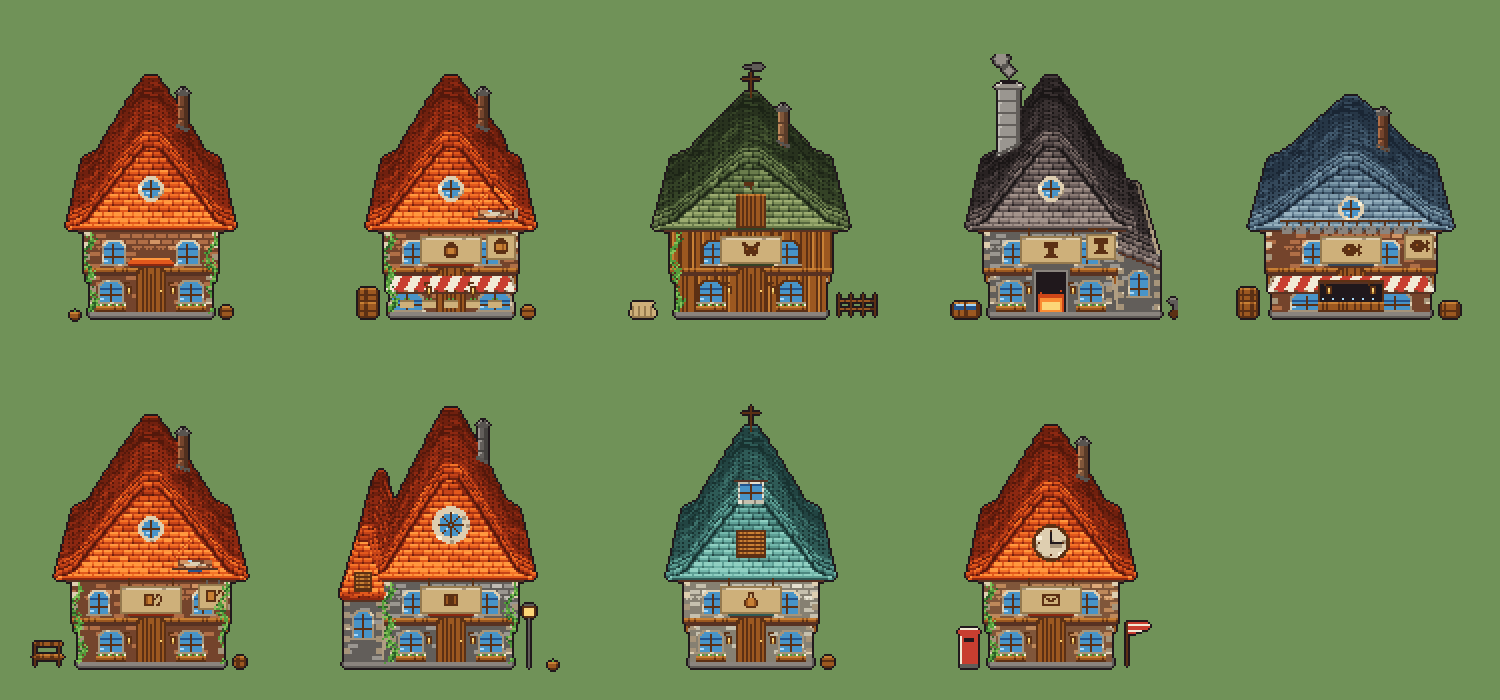
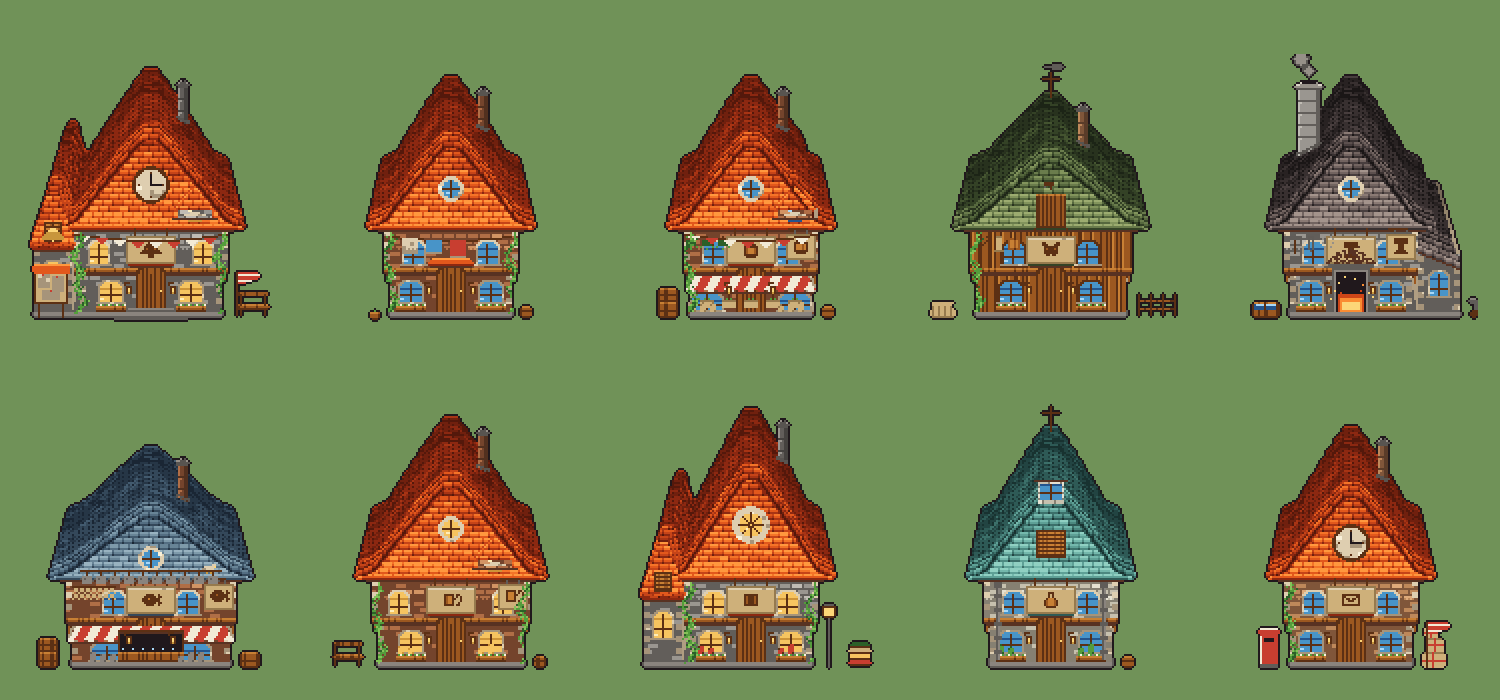
집마다 사는 티를 낸다 + 마을 회관
간판 하나에 물건 하나로는 밋밋했다. 「저 집은 대장간이다」가 되는 건
**연장이 벽에 걸려 있고 창턱에 물건이 널려 있을 때**다. 사람이 쓰는 집은
늘 어질러져 있다.

  불 켜진 창   여관·도서관·회관은 유리색을 통째로 따뜻하게 간다.
               창 하나로 밤에도 사람이 있는 집이 된다
  처마 밑      연장(망치·집게·편자) · 그물 · 굴레와 우유통 · 말린 약초 · 빨래
  창턱         항아리 · 술병 · 책 · 약병 · 생선
  그 밖        만국기(잡화점) · 그을음과 불똥(대장간) · 갈매기(수산시장)
               배관(연구소) · 책더미(도서관) · 소포(우체국) · 석탄(대장간)

연장은 벽이 아니라 **처마 밑에** 걸었다. 벽은 창과 문으로 이미 꽉 차서
걸 자리가 없었다 — 실제로도 이런 건 처마 밑에 매단다. 간판도 30 -> 24칸으로
좁혀 그 자리를 냈다.

마을 회관(chief_house)을 새로 만들었다. 성격은 「여럿이 모인다」라서
다른 집엔 없는 것만 모았다: 종탑과 종 · 박공 시계 · 돌계단 · 게시판 ·
만국기와 깃발. 창은 전부 켜 두었다.

폭은 5칸만 늘렸다. 12칸으로 늘렸더니 왼쪽 종탑과 오른쪽 깃발이 캔버스
밖으로 잘렸다 — 회관은 옆에 붙는 게 많아서 몸통을 넓히면 그만큼 부속이
밀려난다. 큰 느낌은 폭이 아니라 종탑 높이가 낸다.

diff --git a/game/assets/ref/make_buildings.js b/game/assets/ref/make_buildings.js
@@ -752,6 +752,8 @@ const ICON = {
            '..#o###o#..', '..#o###o#..', '..#######..', '...........'],
   flask:  ['....###....', '....#.#....', '....#.#....', '...#ooo#...',
            '..#ooooo#..', '..#ooooo#..', '..#ooooo#..', '...#####...'],
+  bell:   ['....###....', '...#####...', '..#######..', '..#o###o#..',
+           '.#########.', '###########', '....###....', '....###....'],
   letter: ['...........', '.#########.', '.##.....##.', '.#.##.##.#.',
            '.#..###..#.', '.#.......#.', '.#########.', '...........'],
 };
@@ -767,7 +769,7 @@ function stampIcon(g, cx, cy, name, dark, lite) {
 }
 
 function sign(g, cx, icon) {
-  const w = 30, x0 = cx - w / 2, y = EAVE + 4;
+  const w = 24, x0 = cx - w / 2, y = EAVE + 4;
   g.vline(x0 + 4, y - 4, y, 'T');
   g.vline(x0 + w - 4, y - 4, y, 'T');
   g.rect(x0, y, x0 + w, y + 13, 'B');
@@ -970,6 +972,161 @@ function chimney(g, x, top, base, far, w) {
       if (roofT[yy] && roofT[yy][xx] >= 0)
         roofT[yy][xx] = Math.min(1, roofT[yy][xx] + 0.30 - d * 0.045);
     }
+}
+
+
+// ---- 그 집에 사는 티 ----
+//
+// 간판 하나에 물건 하나로는 아직 밋밋했다. 진짜로 「저 집은 대장간이다」가
+// 되는 건 **연장이 벽에 걸려 있고 창턱에 물건이 널려 있을 때**다.
+// 사람이 쓰는 집은 늘 어질러져 있다.
+
+// 벽에 건 연장 — 집마다 다른 세 가지가 나란히 걸린다
+function wallHang(g, x, y, kind) {
+  if (kind === 'smith') {
+    g.rect(x, y, x + 5, y + 1, 'S'); g.vline(x + 2, y + 2, y + 8, 'T');      // 망치
+    g.vline(x + 9, y, y + 6, 'S'); g.vline(x + 11, y, y + 6, 'S');           // 집게
+    g.px(x + 10, y + 7, 'S'); g.px(x + 10, y, 'S');
+    for (const [dx, dy] of [[16,1],[17,0],[20,0],[21,1],[16,3],[21,3],[17,5],[20,5]])
+      g.px(x + dx, y + dy, 'p4');                                            // 편자
+  } else if (kind === 'ranch') {
+    for (const [dx, dy] of [[0,0],[1,0],[5,0],[6,0],[0,1],[6,1],[1,2],[5,2],[2,3],[4,3],[3,4]])
+      g.px(x + dx, y + dy, 'T');                                             // 굴레
+    g.rect(x + 10, y, x + 12, y + 7, 'b'); g.hline(x + 10, x + 12, y, 'B');  // 우유통
+    g.hline(x + 9, x + 13, y + 7, 'B');
+    g.rect(x + 16, y + 1, x + 21, y + 6, 't');                               // 밧줄 타래
+    g.rect(x + 17, y + 2, x + 20, y + 5, 'u');
+  } else if (kind === 'fish') {
+    for (let dy = 0; dy < 7; dy++) for (let dx = 0; dx < 22; dx++)           // 그물
+      if ((dx + dy) % 3 === 0 || (dx - dy + 30) % 3 === 0) g.px(x + dx, y + dy, 'b');
+    g.hline(x, x + 21, y, 'T');
+  } else if (kind === 'herb') {
+    for (let i = 0; i < 3; i++) {                                            // 말린 약초 다발
+      const px = x + i * 8;
+      g.vline(px, y, y + 1, 'T');
+      g.rect(px - 2, y + 2, px + 2, y + 4, 'N');
+      g.px(px - 3, y + 5, 'n'); g.px(px + 3, y + 5, 'n'); g.px(px, y + 6, 'n');
+    }
+  }
+}
+
+// 창턱에 늘어놓은 물건 — 그 가게가 파는 것
+function sillGoods(g, x0, x1, y, kind) {
+  const C = { jar: ['b', 'B'], bottle: ['g', 'G'], book: ['A', 'T'],
+              flask: ['n', 'N'], fish: ['s', 'S'] }[kind] || ['b', 'B'];
+  for (let x = x0; x <= x1 - 3; x += 5) {
+    const h = 3 + ((x >> 1) % 3);
+    g.rect(x, y - h, x + 2, y - 1, C[0]);
+    g.px(x, y - h, C[1]); g.px(x + 2, y - 1, C[1]);
+    if (kind === 'flask') g.px(x + 1, y - h - 1, C[1]);                      // 목
+    if (kind === 'jar') g.px(x + 1, y - h - 1, C[1]);
+  }
+}
+
+// 불똥 — 화구에서 튄다. 대장간이 「일하는 중」으로 보인다
+function sparks(g, cx, y) {
+  for (const [dx, dy] of [[-8,-3],[-6,-7],[-3,-10],[2,-9],[6,-6],[9,-2],[-10,1],[11,0]])
+    g.px(cx + dx, y + dy, (dx + dy) % 2 ? 'y' : 'F');
+}
+
+// 그을음 — 화구 위 벽이 검게 탄다. 이게 있어야 오래 쓴 대장간이다
+function soot(g, x0, x1, y) {
+  for (let dy = 0; dy < 9; dy++) for (let x = x0 + dy; x <= x1 - dy; x++)
+    if (hash(x, y + dy) < 0.75 - dy * 0.07) g.px(x, y - dy, 'D');
+}
+
+// 만국기 — 잡화점 앞에 걸린 삼각 깃발
+function bunting(g, x0, x1, y) {
+  for (let x = x0; x <= x1; x++) g.px(x, y + Math.round(Math.sin((x - x0) / (x1 - x0) * Math.PI) * 3), 'T');
+  for (let i = 0; x0 + i * 9 + 4 < x1; i++) {
+    const px = x0 + i * 9 + 2;
+    const sag = Math.round(Math.sin((px - x0) / (x1 - x0) * Math.PI) * 3);
+    for (let k = 0; k < 4; k++)
+      g.rect(px + k, y + sag + 1 + k, px + 5 - k, y + sag + 1 + k, i % 2 ? 'A' : 'a');
+  }
+}
+
+// 빨랫줄 — 우리집. 사람이 사는 집이라는 표시로 이만한 게 없다
+function laundry(g, x0, x1, y) {
+  for (let x = x0; x <= x1; x++) g.px(x, y + Math.round(Math.sin((x - x0) / (x1 - x0) * Math.PI) * 2), 'T');
+  const cloth = [['x', 7], ['g', 6], ['A', 8]];
+  cloth.forEach(([c, h], i) => {
+    const px = x0 + 6 + i * 12;
+    const sag = Math.round(Math.sin((px - x0) / (x1 - x0) * Math.PI) * 2);
+    g.rect(px, y + sag, px + 7, y + sag + h, c);
+    g.hline(px, px + 7, y + sag + h, 'W');
+  });
+}
+
+// 관 — 연구소 벽을 타고 오르는 배관
+function pipes(g, x, y0, y1) {
+  g.vline(x, y0, y1, 'S'); g.vline(x + 1, y0, y1, 's');
+  for (let y = y0 + 4; y < y1; y += 7) g.rect(x - 1, y, x + 2, y + 1, 'S');
+  g.rect(x - 1, y0 - 2, x + 2, y0, 'S');
+}
+
+// 쌓아 둔 것 — 책(도서관) · 소포(우체국) · 석탄(대장간)
+function pile(g, x, y, kind) {
+  if (kind === 'book') {
+    const c = ['A', 'g', 'b', 'N'];
+    for (let i = 0; i < 4; i++) {
+      g.rect(x + (i % 2), y - 3 - i * 3, x + 11 - (i % 2), y - 1 - i * 3, c[i]);
+      g.hline(x + (i % 2), x + 11 - (i % 2), y - 1 - i * 3, 'T');
+    }
+  } else if (kind === 'parcel') {
+    for (const [dx, dy, w, h] of [[0, 0, 11, 7], [2, 8, 8, 6], [1, 15, 6, 5]]) {
+      g.rect(x + dx, y - dy - h, x + dx + w, y - dy, 'b');
+      g.hline(x + dx, x + dx + w, y - dy - h, 'B');
+      g.vline(x + dx + (w >> 1), y - dy - h, y - dy, 'A');                   // 노끈
+      g.hline(x + dx, x + dx + w, y - dy - (h >> 1), 'A');
+    }
+  } else {                                                                    // 석탄
+    for (let i = 0; i < 26; i++) {
+      const px = x + Math.floor(hash(i, 3) * 14), py = y - Math.floor(hash(3, i) * 7);
+      g.px(px, py, 'O'); g.px(px + 1, py, hash(i, i) < 0.3 ? 'S' : 'O');
+    }
+  }
+}
+
+// 갈매기 — 수산시장 지붕에. 작은 실루엣 하나가 바닷가라고 말해 준다
+function gull(g, x, y) {
+  g.rect(x + 1, y - 2, x + 5, y, 'x');
+  g.px(x, y - 1, 'x'); g.px(x + 6, y - 3, 'x');
+  g.px(x + 5, y - 3, 'x'); g.px(x + 6, y - 2, 'y');
+  g.px(x + 2, y + 1, 'Y'); g.px(x + 4, y + 1, 'Y');
+}
+
+
+// 종 — 회관 종탑에 매단다. 마을을 부르는 물건이라 회관에만 있다
+function bell(g, cx, y) {
+  g.vline(cx, y - 3, y - 2, 'T');
+  for (let i = 0; i < 5; i++) {
+    const w = 1 + Math.round(i * 0.9);
+    g.rect(cx - w, y - 1 + i, cx + w, y - 1 + i, i < 2 ? 'y' : 'Y');
+  }
+  g.rect(cx - 5, y + 4, cx + 5, y + 4, 'Y');
+  g.px(cx, y + 5, 'y');                                    // 종설
+}
+
+// 돌계단 — 여럿이 드나드는 집. 문 앞이 넓게 열려 있다는 표시
+function steps(g, cx, w, ground) {
+  for (let i = 0; i < 3; i++) {
+    const e = i * 4;
+    g.rect(cx - (w >> 1) - e, ground - 4 + i * 2, cx + (w >> 1) + e, ground - 3 + i * 2, 'S');
+    g.hline(cx - (w >> 1) - e, cx + (w >> 1) + e, ground - 4 + i * 2, 's');
+  }
+}
+
+// 게시판 — 회관 앞 코르크판. 종이가 몇 장 붙어 있다
+function noticeboard(g, x, y) {
+  g.vline(x + 2, y - 8, y, 'T'); g.vline(x + 14, y - 8, y, 'T');
+  g.rect(x, y - 24, x + 16, y - 7, 'T');
+  g.rect(x + 1, y - 23, x + 15, y - 8, 'b');
+  for (const [dx, dy, w, h] of [[2, 21, 5, 6], [9, 20, 5, 7], [4, 13, 8, 4]]) {
+    g.rect(x + dx, y - dy, x + dx + w, y - dy + h, 'x');
+    g.px(x + dx + (w >> 1), y - dy, 'A');                  // 압정
+  }
+  for (let i = 0; i < 5; i++) g.rect(x - 1, y - 26 + i, x + 17, y - 26 + i, i ? 'r' : 'l');
 }
 
 
@@ -1185,6 +1342,10 @@ function build(spec) {
   // 안 그러면 서까래만 주황으로 남아 지붕이 두 색이 된다
   PAL.l = rp[0]; PAL.r = rp[2]; PAL.R = rp[5];
   PAL.Mn = rp[4]; PAL.M = rp[5]; PAL.M2 = rp[6]; PAL.M3 = rp[7];
+  // 불 켜진 창 — 유리색을 통째로 간다. 여관·도서관처럼 밤에도 사람이
+  // 있는 집은 창 하나로 분위기가 갈린다
+  if (spec.lit) { PAL.g = [246, 196, 96]; PAL.G = [206, 148, 56]; PAL.e = [254, 238, 186]; }
+  else { PAL.g = [72, 148, 200]; PAL.G = [36, 84, 140]; PAL.e = [168, 216, 248]; }
   const wp = WALL_PAL[spec.wallPal || 'brick'];
   PAL.k = wp.k; PAL.K = wp.K; PAL.i = wp.i;
   PAL.p0 = wp.i; PAL.p1 = wp.k; PAL.p2 = wp.K;
@@ -1263,6 +1424,9 @@ function build(spec) {
     footL = Math.min(footL, c - 9); footR = Math.max(footR, c + 9);
   }
   if (spec.stall) stall(g, CX - 16, CX + 16, GROUND);
+  if (spec.bell) bell(g, (spec.tower === 'right' ? X1 + JUT + 11 : X0 - JUT - 11),
+    EAVE + 10 - 28 + 19);
+  if (spec.steps) steps(g, CX, 22, GROUND);
   // 옆으로 늘어난 만큼 **주춧돌을 하나로 잇는다.** 덩어리마다 따로 두면
   // 밑에 틈이 생겨서 두 채를 나란히 세워 놓은 것처럼 보인다 — 한 채의
   // 집은 한 장의 땅 위에 선다
@@ -1296,11 +1460,28 @@ function build(spec) {
     else if (kind === 'lamppost') lamppost(g, px, GROUND);
     else if (kind === 'bench') bench(g, px, GROUND);
     else if (kind === 'fence') fence(g, px, px + 26, GROUND);
+    else if (kind === 'books') pile(g, px, GROUND, 'book');
+    else if (kind === 'parcel') pile(g, px, GROUND, 'parcel');
+    else if (kind === 'coal') pile(g, px, GROUND, 'coal');
+    else if (kind === 'notice') noticeboard(g, px, GROUND);
   }
   if (spec.flag) flag(g, X1 + JUT + 5, GROUND);
   if (spec.sign) sign(g, CX, spec.icon);
   if (spec.hang) hangSign(g, X1 + JUT - 14, MID - 22, spec.icon);
   if (spec.baskets) baskets(g, CX - 22, CX + 22, MID + 11);
+  // 연장·약초는 **처마 밑에** 건다. 벽은 창과 문으로 이미 꽉 차서 걸 데가
+  // 없었다 — 실제로도 이런 건 처마 밑에 매단다
+  if (spec.hang2) wallHang(g, X0 - JUT + 3, EAVE + 4, spec.hang2);
+  if (spec.sill) {                                               // 창턱에 늘어놓은 물건
+    const sy = (spec.awning ? MID + 20 : MID + 16);
+    sillGoods(g, CX - 26 - (spec.bigWin ? 4 : 0), CX - 14, sy, spec.sill);
+    sillGoods(g, CX + 14, CX + 26 + (spec.bigWin ? 4 : 0), sy, spec.sill);
+  }
+  if (spec.soot) { soot(g, CX - 12, CX + 12, GROUND - 27); sparks(g, CX, GROUND - 10); }
+  if (spec.bunting) bunting(g, X0 - JUT, X1 + JUT, EAVE + 3);
+  if (spec.laundry) laundry(g, X0 - JUT + 3, X1 + JUT - 3, EAVE + 4);
+  if (spec.pipes) { pipes(g, X0 + 3, EAVE + 4, GROUND - 4); pipes(g, X1 - 4, EAVE + 4, GROUND - 4); }
+  if (spec.gull) gull(g, CX + 26, EAVE - 4);
   if (spec.fishLine) fishLine(g, X0 + 4, X1 - 4, MID - 26);
   if (spec.smoke) smoke(g, (spec.chimneyX || CX) + 5, RIDGE - 39);
   // 담쟁이는 **맨 마지막**에. 창틀·간판 위로 조금 넘어가야 자란 것처럼 보인다
@@ -1328,47 +1509,75 @@ function build(spec) {
 //
 // props 의 숫자는 벽에서의 거리다. 음수면 왼쪽 벽 바깥, 양수면 오른쪽.
 const KINDS = {
-  // 우리집 — 간판이 없는 유일한 집. 담쟁이와 꽃상자
-  house: { props: [['planter', -7], ['barrel', 2]] },
+  // 우리집 — 간판이 없는 유일한 집. 대신 빨래가 널려 있다.
+  // 「사람이 산다」를 말하는 데 빨랫줄만 한 게 없다
+  house: { laundry: true, props: [['planter', -7], ['barrel', 2]] },
 
-  // 잡화점 — 항아리 간판. 차양 밑에 바구니가 주렁주렁, 궤짝을 쌓아 뒀다
+  // 잡화점 — 항아리 간판 + 만국기. 차양 밑에 바구니, 창턱에 병,
+  // 벽에는 말린 약초 다발. 궤짝을 쌓아 뒀다
   house_general: { sign: true, icon: 'jar', hang: true, awning: 2, bigWin: true,
-    baskets: true, dormer: true, ivy: 1,
+    baskets: true, bunting: true, dormer: true, ivy: 1,
+    hang2: 'herb', sill: 'jar',
     props: [['crate', -13], ['crate2', -13], ['barrel', 3]] },
 
-  // 목장 상회 — 소 간판. 앞에 울타리와 건초더미. 널판 벽, 다락문, 풍향계
+  // 목장 상회 — 소 간판. 벽에 굴레·우유통·밧줄, 앞에 울타리와 건초더미
   house_ranch: { sign: true, icon: 'cow', wall: 'plank', wallPal: 'warm',
     roofPal: 'moss', w: 7, pitch: -8, gable: 'loft', vane: true, ivy: 1,
+    hang2: 'ranch',
     props: [['hay', -20], ['fence', 4]] },
 
-  // 대장간 — 망치 간판. 화구가 벌겋고 굴뚝에서 연기가 오른다.
-  // 앞에는 모루와 담금질통, 옆에는 작업 곁채
+  // 대장간 — 망치 간판. 화구 위 벽이 그을리고 불똥이 튄다. 벽에는
+  // 망치·집게·편자, 앞에는 모루·담금질통·석탄더미. 옆에 작업 곁채
   house_smith: { sign: true, icon: 'hammer', hang: true, roofPal: 'soot',
     wallPal: 'stone', chim: 'big', chimneyX: 38, smoke: true, forge: true,
-    lean: 'right', ivy: 0,
-    props: [['anvil', 26], ['trough', -16]] },
+    lean: 'right', ivy: 0, soot: true, hang2: 'smith',
+    props: [['anvil', 26], ['trough', -16], ['coal', 40]] },
 
-  // 수산시장 — 생선 간판. 처마 밑에 생선을 널어 말리고, 문 대신 판매대
+  // 수산시장 — 생선 간판. 벽에 그물, 처마 밑에 널어 말리는 생선,
+  // 창턱에 생선, 지붕에 갈매기. 문 대신 판매대
   house_fish: { sign: true, icon: 'fish', hang: true, roofPal: 'slate',
-    awning: 2, w: 9, pitch: -10, bigWin: true, stall: true, fishLine: true, ivy: 0,
+    awning: 2, w: 9, pitch: -10, bigWin: true, stall: true, fishLine: true,
+    ivy: 0, hang2: 'fish', sill: 'fish', gull: true,
     props: [['crate', -14], ['crate2', -14], ['crate', 3]] },
 
-  // 여관 — 맥주잔 간판. 문 앞에 긴 의자. 제일 크고 2층 창이 셋
+  // 여관 — 맥주잔 간판. **창에 불이 켜져 있다.** 창턱에 술병, 문 앞 긴 의자
   house_inn: { sign: true, icon: 'mug', hang: true, w: 6, pitch: 5, win3: true,
-    dormer: true, props: [['bench', -20], ['barrel', 3]] },
+    dormer: true, lit: true, sill: 'bottle',
+    props: [['bench', -20], ['barrel', 3]] },
 
-  // 도서관 — 책 간판. 앞에 가로등(밤에 책 읽는 집). 돌벽, 뾰족 지붕, 장미창
+  // 도서관 — 책 간판. 창에 불이 켜져 있고 앞에 가로등과 책더미.
+  // 돌벽, 뾰족 지붕, 장미창, 왼쪽에 탑
   house_library: { sign: true, icon: 'book', wallPal: 'stone', pitch: 9,
-    gable: 'rose', tower: 'left', props: [['lamppost', 6], ['planter', 16]] },
+    gable: 'rose', tower: 'left', lit: true, sill: 'book',
+    props: [['lamppost', 6], ['books', 16]] },
 
-  // 연금 연구소 — 플라스크 간판. 청동 지붕에 옥탑 채광창. 담쟁이는 없다
+  // 연금 연구소 — 플라스크 간판. 벽을 타고 오르는 배관, 창턱에 약병.
+  // 청동 지붕에 옥탑 채광창. 담쟁이는 없다(깔끔해야 한다)
   house_lab: { sign: true, icon: 'flask', roofPal: 'copper', wallPal: 'pale',
     gable: 'vent', cupola: true, chim: 'none', vane: true, ivy: 0,
-    props: [['barrel', 3]] },
+    pipes: true, sill: 'flask', props: [['barrel', 3]] },
 
-  // 우체국 — 편지 간판에 박공 시계, 깃발, 문 앞에 우체통
+  // 우체국 — 편지 간판에 박공 시계, 깃발, 우체통, 쌓아 둔 소포
   house_post: { sign: true, icon: 'letter', wallPal: 'warm', gable: 'clock',
-    flag: true, ivy: 1, props: [['mailbox', -12]] },
+    flag: true, ivy: 1, props: [['mailbox', -12], ['parcel', 3]] },
+
+  // 마을 회관 — 마을에서 **제일 크고 제일 높은** 집. 여기만 종탑이 있다.
+  //
+  // 회관의 성격은 「여럿이 모인다」이다. 그래서 다른 집엔 없는 것만 모았다:
+  //   종탑과 종     마을을 불러 모으는 물건
+  //   박공 시계     마을의 시간이 여기서 나온다
+  //   돌계단        문 앞이 넓게 열려 있다 (혼자 사는 집엔 계단이 없다)
+  //   게시판        모두가 읽는 것
+  //   만국기·깃발   행사가 열리는 집
+  // 창은 전부 불이 켜져 있다 — 회관은 밤에도 사람이 있다.
+  //
+  // 폭은 5칸만 늘렸다. 12칸으로 늘렸더니 왼쪽 종탑과 오른쪽 깃발이
+  // 캔버스 밖으로 잘려 나갔다 — 회관은 옆으로 붙는 게 많아서 **몸통을
+  // 넓히면 그만큼 부속이 밀려난다.** 큰 느낌은 폭이 아니라 종탑 높이가 낸다.
+  chief_house: { sign: true, icon: 'bell', w: 5, pitch: 4, win3: true,
+    gable: 'clock', tower: 'left', bell: true, steps: true, bunting: true,
+    flag: true, dormer: true, lit: true, wallPal: 'stone', ivy: 2,
+    props: [['notice', -20], ['bench', 6]] },
 };
 
 let n = 0;
